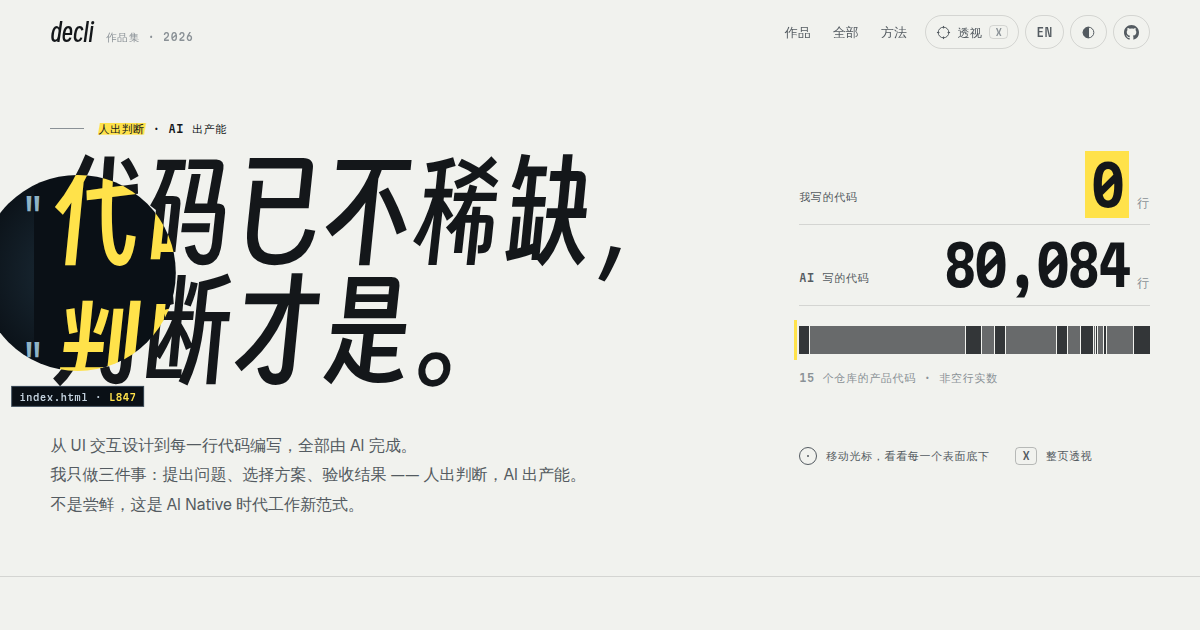
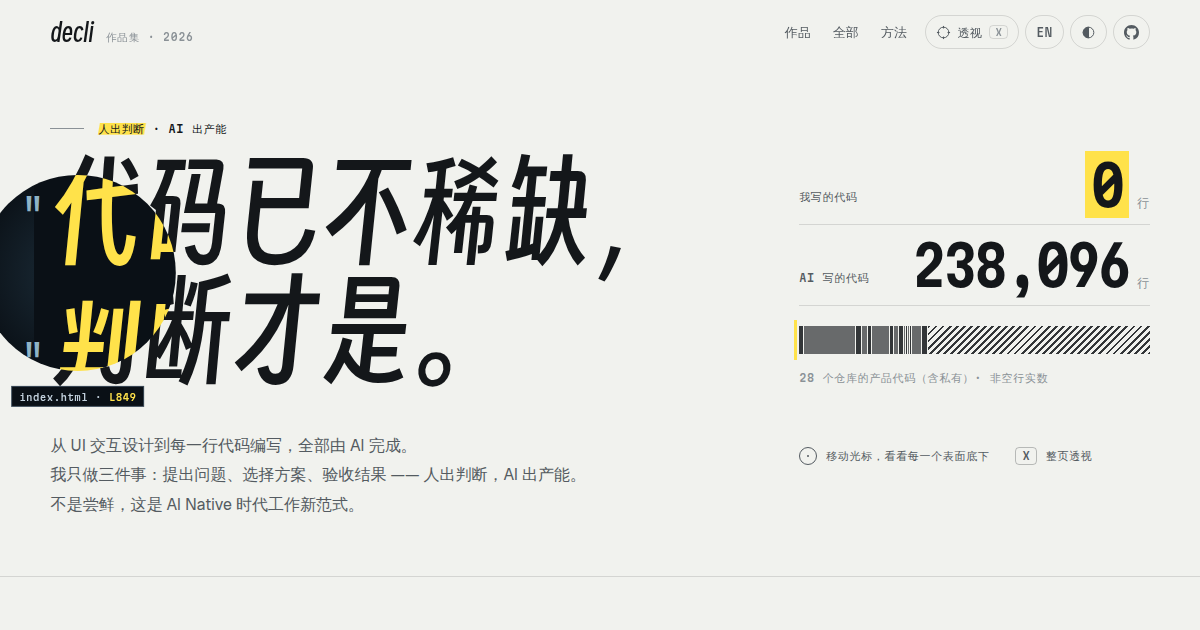
首屏「AI 写的代码」算上作品清单以外的全部仓库，含私有
总数从 80,084 行变成 238,096 行：十五件作品 80,084 行，加上作品清单以外的 13 个仓库 158,012 行
（我提交过的全部仓库，公开的、私有的都算，fork 不算）。作品清单照旧只列公开的十五件。

- tools/harvest.mjs 加 --others <目录>：目录下每个仓库按同一套规矩数一遍，index.json 只记合计
  others = { repos, loc, files }，不记仓库名、不出摘录；--only-others 只重数这一块，作品的数不动；
  重数作品时没给 --others 就沿用上一次的合计
- 同一个东西的几版不重复算：70% 以上的行在另一个更大的仓库里也有就是旧版，跳过；
  把某件作品 70% 以上的代码包进去的是那件作品的新版，只算多出来的部分（实测几版之间 80%～92%，不相干的 30% 以下）
- 不算的再加两类：运行时传上来的文件（uploads/）、个人主页仓库里画出来的 SVG
- 首屏条码最后加一段斜纹「其余 13 个仓库（含私有）」，说明里的仓库数跟着数据走（28 个）
- tools/stamp.py 把 others 合计也抄进 window.CODE_STATS；og.png 按新首屏重截；README 写清新规矩

Claude-Session: https://claude.ai/code/session_01ViqGCCUxBcsyXLadfwPCsk

diff --git a/index.html b/index.html
@@ -145,7 +145,7 @@
         "/code/codeless.json": "e202c23d",
         "/code/ems.json": "b01f5fb1",
         "/code/ftms.json": "0622a55b",
-        "/code/index.json": "ad8104fa",
+        "/code/index.json": "08f86ea5",
         "/code/ip-display.json": "7028003b",
         "/code/ip-geo.json": "755495d3",
         "/code/jobornot.json": "2f81d149",
@@ -159,7 +159,7 @@
         "/fonts/martian.woff2": "3c8a4fa7",
         "/fonts/smiley.woff2": "f7a98a45"
       };
-      window.CODE_STATS = {"total":80084,"projects":{"codeless":{"loc":2400,"files":32},"ftms":{"loc":37031,"files":123},"ems":{"loc":3514,"files":23},"logicc":{"loc":2967,"files":1},"wxformat3":{"loc":2345,"files":11},"macpleco":{"loc":11936,"files":58},"ip-geo":{"loc":2449,"files":23},"jobornot":{"loc":2829,"files":34},"wx-export":{"loc":2774,"files":3},"tabinfocopy":{"loc":64,"files":4},"ip-display":{"loc":105,"files":5},"pagescroll":{"loc":1174,"files":1},"bing-wallpaper":{"loc":663,"files":1},"codehelper":{"loc":6087,"files":48},"chinesechess":{"loc":3746,"files":24}}};
+      window.CODE_STATS = {"total":238096,"projects":{"codeless":{"loc":2400,"files":32},"ftms":{"loc":37031,"files":123},"ems":{"loc":3514,"files":23},"logicc":{"loc":2967,"files":1},"wxformat3":{"loc":2345,"files":11},"macpleco":{"loc":11936,"files":58},"ip-geo":{"loc":2449,"files":23},"jobornot":{"loc":2829,"files":34},"wx-export":{"loc":2774,"files":3},"tabinfocopy":{"loc":64,"files":4},"ip-display":{"loc":105,"files":5},"pagescroll":{"loc":1174,"files":1},"bing-wallpaper":{"loc":663,"files":1},"codehelper":{"loc":6087,"files":48},"chinesechess":{"loc":3746,"files":24}},"others":{"repos":13,"loc":158012}};
     </script>
     <!-- ASSET-VERSIONS:END -->
     <script src="sites.js?v=48ef9d36" charset="utf-8"></script>
@@ -385,7 +385,7 @@
       .lede { grid-column: 1 / span 6; grid-row: 2; align-self: start; margin: 0; max-width: 34em; font-size: clamp(16px, 1.25vw, 18.5px); line-height: 1.85; color: var(--ink-2); white-space: pre-line; text-wrap: pretty; }
       body[data-lang="en"] .lede { line-height: 1.65; max-width: 38em; }
 
-      /* 一和八万：我写的、AI 写的 */
+      /* 零和全部：我写的、AI 写的 */
       .ratio { grid-column: 9 / span 4; grid-row: 1; display: grid; gap: 16px; padding-bottom: 0.6vw; }
       .rrow { display: grid; grid-template-columns: 1fr auto; align-items: baseline; gap: 8px 16px; padding-bottom: 14px; border-bottom: 1px solid var(--line); }
       .rrow .label { align-self: end; padding-bottom: 6px; }
@@ -393,11 +393,13 @@
       .rnum small { font: 500 12px/1 var(--f-mono); font-stretch: 87.5%; letter-spacing: 0.04em; color: var(--ink-3); margin-left: 8px; }
       .rrow.me .rnum b { font-weight: 600; }
       .rnum .hl { background: var(--hl); color: var(--hl-ink); padding: 0.02em 0.12em 0; margin: 0; }
-      /* 一根条码：八万行按项目分成十五段，宽度就是行数。我那一段宽度是零，只剩一道黄线 */
+      /* 一根条码：按项目分段，宽度就是行数。我那一段宽度是零，只剩一道黄线。
+         最后那段斜纹是作品清单以外的仓库（含私有）：只计入总数，不列名字 */
       .bars { position: relative; display: flex; height: 28px; gap: 1px; margin-top: 4px; }
       .bars::before { content: ""; position: absolute; left: -5px; top: -6px; bottom: -6px; width: 3px; background: var(--hl); }
       .bars span { position: relative; flex: var(--n) 1 0; min-width: 1px; background: var(--ink); opacity: 0.86; transition: opacity 0.2s; }
       .bars span:nth-child(2n) { opacity: 0.62; }
+      .bars span.oth { opacity: 0.86; background: repeating-linear-gradient(135deg, var(--ink) 0 2px, transparent 2px 5px); }
       .bars:hover span { opacity: 0.3; }
       .bars span:hover { opacity: 1; }
       .bars-cap { display: flex; justify-content: space-between; gap: 12px; color: var(--ink-3); }
@@ -850,7 +852,7 @@
             + "我只做三件事：提出问题、选择方案、验收结果 —— 人出判断，AI 出产能。\n"
             + "不是尝鲜，这是 AI Native 时代工作新范式。",
           me: "我写的代码", ai: "AI 写的代码", lines: "行",
-          barsCap: "15 个仓库的产品代码 · 非空行实数", barsOf: "%s · %n 行",
+          barsCap: "%r 个仓库的产品代码（含私有）· 非空行实数", barsOf: "%s · %n 行", barsOthers: "其余 %r 个仓库（含私有）",
           hintLens: "移动光标，看看每一个表面底下", hintKey: "整页透视", hintTouch: "点右下角的透镜，看看表面底下",
           xOn: "透视", xA11y: "透视：把整页换成底下的代码",
           mLabel: "方法", mTitle: "我只做三件事", mNote: "其余的一切交给 AI。三件事都落在「判断」上：问什么、选哪条、算不算完。",
@@ -879,7 +881,7 @@
             + "My part is three things: pose the problem, make the calls, sign off on the result — I bring the judgment, AI brings the throughput.\n"
             + "Not an experiment — this is what work looks like in the AI-native era.",
           me: "Lines I wrote", ai: "Lines AI wrote", lines: "lines",
-          barsCap: "Product code across 15 repos · non-blank lines", barsOf: "%s · %n lines",
+          barsCap: "Product code across %r repos, private ones included · non-blank lines", barsOf: "%s · %n lines", barsOthers: "%r more repos, private ones included",
           hintLens: "Move the cursor to see beneath any surface", hintKey: "X-ray the page", hintTouch: "Tap the lens bottom-right to see beneath the surface",
           xOn: "X-ray", xA11y: "X-ray: show the code beneath the whole page",
           mLabel: "Method", mTitle: "I only do three things", mNote: "Everything else goes to AI. All three are judgment calls: what to ask, which path, when it's done.",
@@ -947,15 +949,20 @@
         $("h1").innerHTML = `<span>${esc(a)}</span><span>${esc(b)}</span>`;
         $("lede").textContent = t("lede");
         const total = S.stats ? S.stats.total : null;
+        // 作品清单以外的仓库（含私有）：只有一个合计，接在条码最后一段，不列名字
+        const oth = S.stats && S.stats.others;
+        const othName = oth ? t("barsOthers").replace("%r", oth.repos) : "";
         const segs = S.stats
           ? PROJECTS.filter((p) => locOf(p.slug)).map((p) =>
               `<span style="--n:${locOf(p.slug)}" title="${esc(t("barsOf").replace("%s", L(p.name)).replace("%n", fmt(locOf(p.slug))))}" data-n="${esc(L(p.name))} · ${fmt(locOf(p.slug))}"></span>`).join("")
+            + (oth ? `<span class="oth" style="--n:${oth.loc}" title="${esc(t("barsOf").replace("%s", othName).replace("%n", fmt(oth.loc)))}" data-n="${esc(othName)} · ${fmt(oth.loc)}"></span>` : "")
           : "";
+        const nRepos = (S.stats ? PROJECTS.filter((p) => locOf(p.slug)).length : PROJECTS.length) + (oth ? oth.repos : 0);
         $("ratio").innerHTML = `
           <div class="rrow me"><span class="label">${esc(t("me"))}</span><span class="rnum"><b class="hl">0</b><small>${esc(t("lines"))}</small></span></div>
           <div class="rrow"><span class="label">${esc(t("ai"))}</span><span class="rnum">${total ? fmt(total) : "—"}<small>${esc(t("lines"))}</small></span></div>
           ${segs ? `<div class="bars" id="bars" aria-hidden="true">${segs}</div>` : ""}
-          <div class="bars-cap label"><span>${esc(t("barsCap"))}</span><output id="barsOut" aria-live="off"></output></div>`;
+          <div class="bars-cap label"><span>${esc(t("barsCap").replace("%r", nRepos))}</span><output id="barsOut" aria-live="off"></output></div>`;
         const touch = matchMedia("(hover: none), (pointer: coarse)").matches;
         $("hint").innerHTML = touch
           ? `<span><i class="reticle"></i><span class="label">${esc(t("hintTouch"))}</span></span>`

diff --git a/tools/stamp.py b/tools/stamp.py
@@ -17,8 +17,8 @@ sites.js，新的 index.html 一到就会去取新的，不会拿旧缓存对付
 4. CSS 里的 `url(/fonts/x.woff2)` 和 `<link rel="preload" href="/fonts/x.woff2">` 也盖上 ?v=
    —— 这两处在 JS 跑起来之前就要用，进不了 V()；而且两处必须是同一个地址，
    不然预加载的那份白下了，浏览器还会在控制台抱怨一句
-5. 把 code/index.json 里各项目的行数抄进同一个块（window.CODE_STATS）——
-   首屏那个 80,084 和每件作品的行数首帧就有，不用再等一次请求、也不会画完再跳一下
+5. 把 code/index.json 里各项目的行数、作品清单以外那些仓库的合计抄进同一个块（window.CODE_STATS）——
+   首屏那个总数和每件作品的行数首帧就有，不用再等一次请求、也不会画完再跳一下
 
 index.html 里的 `V()` 查这张表拼 `?v=`；表里没有的（子站 favicon、外链图）
 原样返回。表整个不存在也不报错，就是退回没有版本号的状态。
@@ -93,6 +93,8 @@ def main() -> int:
     if idx.exists():
         data = json.loads(idx.read_text(encoding="utf-8"))
         slim = {"total": data.get("total"), "projects": {k: {"loc": v.get("loc"), "files": v.get("files")} for k, v in data.get("projects", {}).items()}}
+        if data.get("others"):
+            slim["others"] = {"repos": data["others"]["repos"], "loc": data["others"]["loc"]}
         stats = f"      window.CODE_STATS = {json.dumps(slim, ensure_ascii=False, separators=(',', ':'))};\n"
     block = (
         f"{BEGIN}\n"

diff --git a/README.md b/README.md
@@ -155,7 +155,7 @@ python3 tools/stamp.py              # 忘了也行，推上去 Actions 会补
 
 ## 数字从哪来
 
-首屏那个 `80,084`、每件作品「AI 写了多少行」、「全部」表里那根条的长度，全来自
+首屏那个总数、每件作品「AI 写了多少行」、「全部」表里那根条的长度，全来自
 [`tools/harvest.mjs`](tools/harvest.mjs) —— 它把十五个仓库浅克隆下来，数一遍：
 
 - **只数产品代码**：源码、样式、标记、构建与 CI 脚本，非空行
@@ -168,10 +168,23 @@ python3 tools/stamp.py              # 忘了也行，推上去 Actions 会补
 长卷的近山（截图底下那座由源码灌成的山）和每座山的高低，读的也是这里的 `code/<slug>.json` 和 `code/index.json`，
 两边的数字永远是同一份。
 
+**总数还算上作品清单以外的仓库**：我提交过的全部仓库，公开的、私有的都算（fork 不算），规矩跟上面一样。
+作品清单照旧只列公开的十五件；其余仓库在首屏那根条码上并成最后一段斜纹，`code/index.json` 里也只有一个合计
+`others = { repos, loc, files }` —— 私有仓库的名字和代码都不出现在这个公开仓库里。
+
+同一个东西的前后几版不重复算：一个仓库 70% 以上的代码行在另一个更大的仓库里也有，它就是旧版，跳过；
+一个仓库把某件作品 70% 以上的代码都包进去了，它就是那件作品的新版，只算它多出来的部分。
+（实测真是几版的在 80%～92%，不相干的仓库都在 30% 以下。）另外，运行时传上来的文件（`uploads/`）
+和个人主页仓库里画出来的 SVG 是产物，不算。
+
 ```sh
 node tools/harvest.mjs                 # 自己克隆到临时目录
 node tools/harvest.mjs --repos <目录>   # 已经克隆好了
+# 其余仓库：全部克隆进一个目录（十五件作品也克隆进去，拿来比对新旧版），只重数这一块
+node tools/harvest.mjs --others <目录> --only-others
 ```
+
+重数作品时没给 `--others`，就沿用上一次的合计，总数不会悄悄变少。
 
 ---
 
